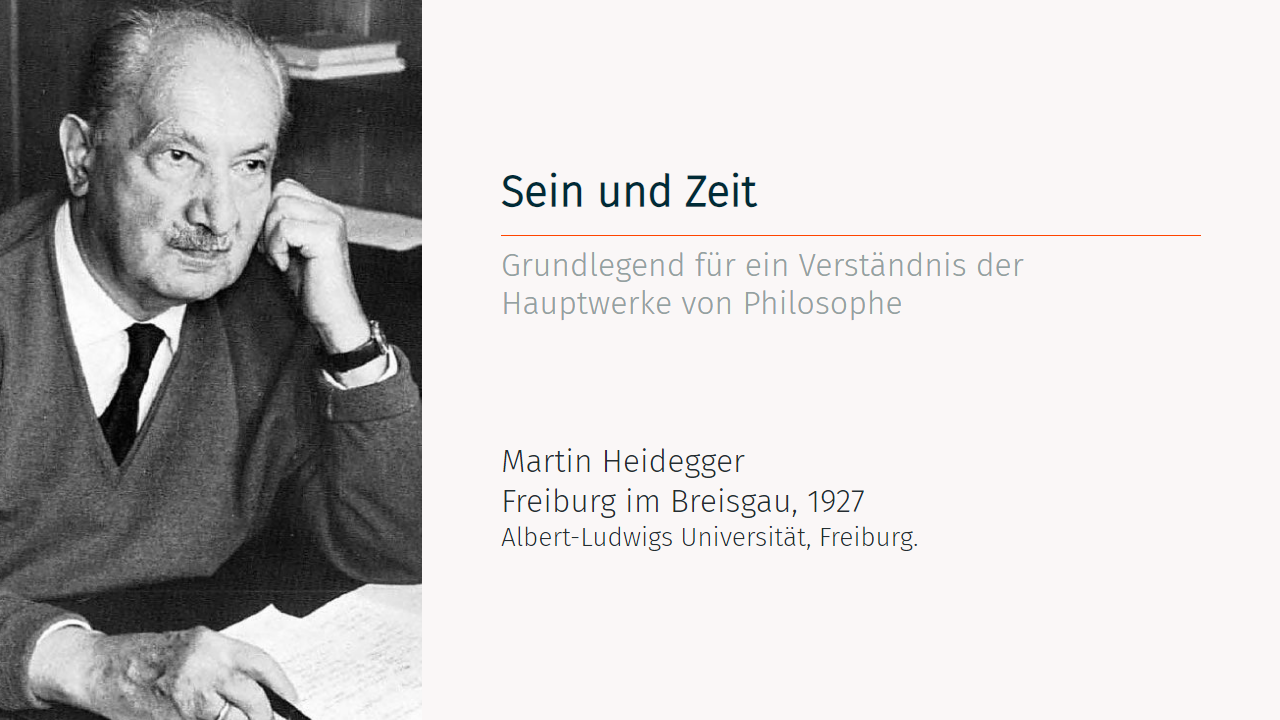
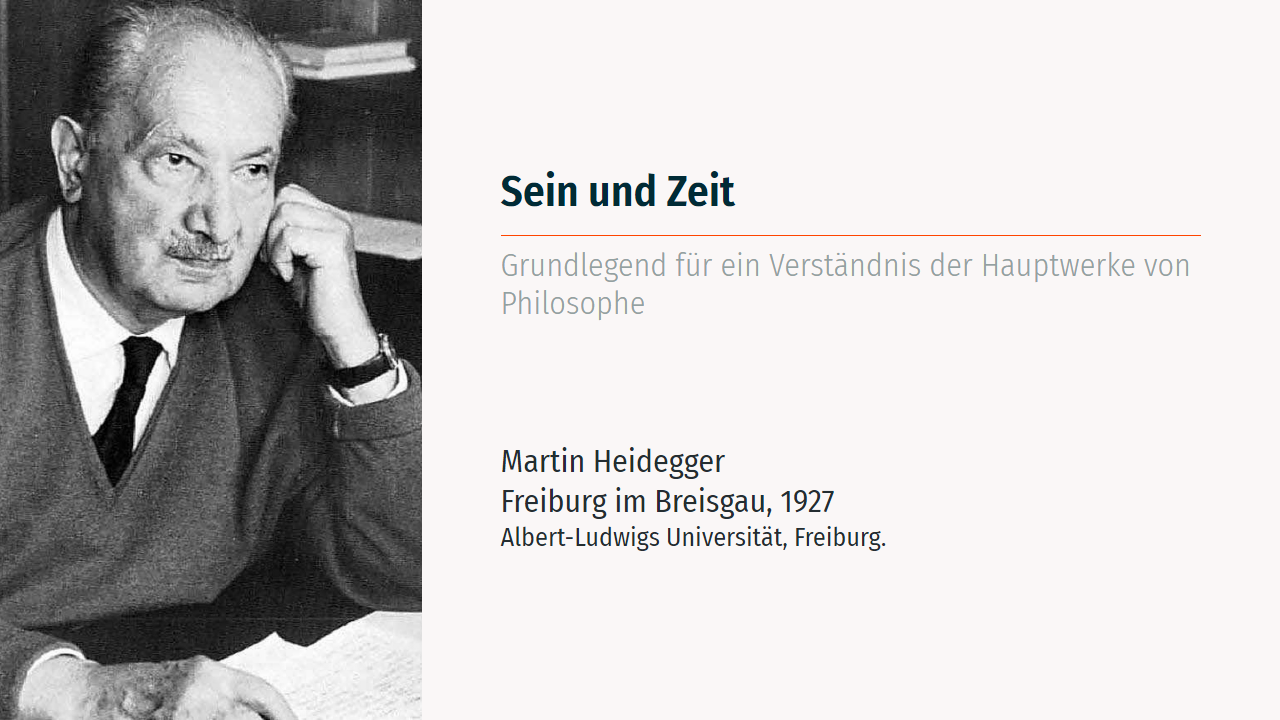
Corrections

diff --git a/style/arendt.css b/style/arendt.css
@@ -17,6 +17,10 @@
 
 /* Importing Font */
 /* Font Credit: htts://https://www.cdnfonts.com/ */
+/* @import url('https://fonts.cdnfonts.com/css/fira-sans-condensed?styles=19730'); */
+/* @import url('https://fonts.cdnfonts.com/css/fira-sans?styles=20119'); */
+/* @import url('https://fonts.cdnfonts.com/css/fira-sans?styles=20121'); */
+@import url('https://fonts.cdnfonts.com/css/fira-sans');
 
 @font-face {
   font-family: HeaderFont;
@@ -28,9 +32,6 @@
   src: url("https://fonts.cdnfonts.com/css/fira-sans?styles=20119");
 }
 
-@import url('https://fonts.cdnfonts.com/css/fira-sans-condensed?styles=19730');
-
-
 /* -------------------- ROOT -------------------------------*/
 
 :root {
@@ -39,6 +40,7 @@
   font-family: 'Fira Sans', sans-serif;
   font-weight: initial;
 
+  /* --default-background-color: #d6d2c6;  */
   --default-background-color: #e4d5a6;
 
   --default-font-color: rgb(68, 52, 16);
@@ -54,9 +56,11 @@
   --subtitle-color: rgb(12, 55, 75);  
   --letter-spacing: -0.6px !important;
   --default-header-bold-font-color: rgb(228, 5, 5);
-  --default-strong-font-color: rgb(255, 38, 0);
+  --default-strong-font-color: rgb(201, 59, 34);
   --italic-background-color: orangered;
   --default-border-color: 2px solid rgb(211, 34, 11);
+
+
   
   background-color: var(--default-background-color);
   color: var(--default-font-color);
@@ -66,7 +70,7 @@
 :root p {
 
   font-size: 36px;
-  font-family: "BodyFont", sans-serif;
+  font-family: "BodyFont", sans-serif !important;
   letter-spacing: -0.5px;
 
   color: var(--default-font-color);
@@ -75,7 +79,7 @@
 :root ul, ol {
 
   font-size: 30px;
-  font-family: sans-serif !important;
+  font-family: "BodyFont", sans-serif !important;
   letter-spacing: -0.2px;
   font-weight: 600 !important;
 
@@ -130,7 +134,7 @@ section table th {
 
 section.cite {
   background-color: #d8dee9;
-  --strong-color: #c53442;
+  --strong-color: #f0031b;
   --strong-color: #4d75a5;
 }
 

diff --git a/style/heidegger.css b/style/heidegger.css
@@ -16,8 +16,17 @@
 
 /***************** COMMON STRUCTURE **********************/
 
+/* Importing Font */
+/* Font Credit: htts://https://www.cdnfonts.com/ */
+/* @import url('https://fonts.cdnfonts.com/css/fira-sans-condensed?styles=19730'); */
+/* @import url('https://fonts.cdnfonts.com/css/fira-sans-condensed?styles=19730'); */
+@import url('https://fonts.cdnfonts.com/css/fira-sans-condensed');
+
+
 :root {
   font-family: "Fira Sans Light";
+  font-family: 'Fira Sans Condensed', sans-serif;
+
   /* font-family: Cochin, Georgia; */
   font-weight: initial;
   
@@ -29,9 +38,9 @@
   background-color            : #435160; 
   background-color            : #dedfde;
   background-color            : #FFCC00;
+  background-color            : #fbc30a;
   background-color            : #f7a600;
   background-color            : #f8b632;
-  background-color            : #fbc30a;
   
   --h1-color                  : #33404d;
   --h1-color                  : #a57825;

diff --git a/style/einstein.css b/style/einstein.css
@@ -16,6 +16,8 @@
 
 /* Importing Font */
 /* Font Credit: htts://https://www.cdnfonts.com/ */
+@import url('https://fonts.cdnfonts.com/css/fira-sans-condensed?styles=19730');
+@import url('https://fonts.cdnfonts.com/css/fira-sans');
 
 @font-face {
   font-family: HeaderFont;
@@ -27,16 +29,13 @@
   src: url("https://fonts.cdnfonts.com/css/fira-sans?styles=20119");
 }
 
-@import url('https://fonts.cdnfonts.com/css/fira-sans-condensed?styles=19730');
 
 
 /* -------------------- ROOT -------------------------------*/
 
 :root {
-  font-family: BodyFont, sans-serif;
+
   font-family: 'Fira Sans', sans-serif;
-
-
   font-weight: initial;
 
   --default-strong-font-color: rgb(216, 183, 77);

diff --git a/style/descartes.css b/style/descartes.css
@@ -16,6 +16,7 @@
 
 /* Importing Font */
 /* Font Credit: htts://https://www.cdnfonts.com/ */
+/* @import url('https://fonts.cdnfonts.com/css/fira-sans'); */
 @import url('https://fonts.cdnfonts.com/css/fira-sans?styles=20119');
 
 /***************** COMMON STRUCTURE **********************/

diff --git a/examples/example-heidegger.md b/examples/example-heidegger.md
@@ -35,7 +35,7 @@ theme       : heidegger
 <!-- _class: titlepage -->
 <!-- ![bg left:33% h:113%](https://prabook.com/web/show-photo.jpg?id=2773656&cache=false) -->
 
-![bg left:33% h:113%](https://anglican.ink/wp-content/uploads/2015/03/field_image_Martin-Heidegger-696x829.jpg)
+![bg left:33% h:100%](https://s3.amazonaws.com/assets.pippa.io/shows/5e88c44085a6e1b14cdd31f8/1621372371899-4f2b816ec577eaafeb8d1f042741e1d5.jpeg)
 
 
 <div class="title"         > Sein und Zeit </div>
